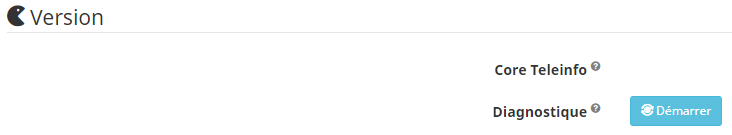
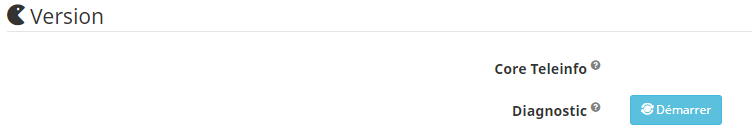
Maj de la doc

Changed region(s): [[0.0, 0.0296, 1.0, 0.2667], [0.6612, 0.6815, 0.9918, 0.9481], [0.6311, 0.4444, 0.8415, 0.563]]

diff --git a/docs/fr_FR/api.md b/docs/fr_FR/api.md
@@ -11,18 +11,20 @@ URL = http://#IP_JEEDOM#:#PORT_JEEDOM#/jeedom/plugins/teleinfo/core/php/jeeTelei
 
  #PORT_JEEDOM# correspond au port d'accès à votre Jeedom
 
- #VOTRE_API_JEEDOM# est la clé API disponible depuis le menu Général / Administration / Configuration
+ #VOTRE_API_JEEDOM# est la clé API disponible depuis Roue Cranté / Configuration
 
  ![teleinfo8](../images/teleinformation_api_menu1.png)
 
 En paramètre du POST l'information device est obligatoire et correspond à l'identifiant du compteur.
+```
 {
 "device": {
     "#IDENTIFIANT_DU_COMPTEUR#" : { "device":"#IDENTIFIANT_DU_COMPTEUR#", "#CLE#":"#VALEUR#", "#CLE#":"#VALEUR#" }
     }
 }
+```
 
-Attention le /jeedom peux être différent si vous êtes sur une installation DIY ou OEM. En règle générale il faut l'ajouter.
+Attention le /jeedom peux être différent si vous êtes sur une installation DIY ou OEM.
 
 Par exemple pour l'index d'un abonnement BASE EDF équivalent à 123456789 :
 

diff --git a/docs/fr_FR/diagnostic.md b/docs/fr_FR/diagnostic.md
@@ -1,4 +1,4 @@
-Diagnostique
+Diagnostic
 ===
 Il est possible de lancer un diagnostique sur le plugin afin de tenter de détecter les problèmes.
 Pour cela un bouton est mis à disposition sur la page configuration du plugin
